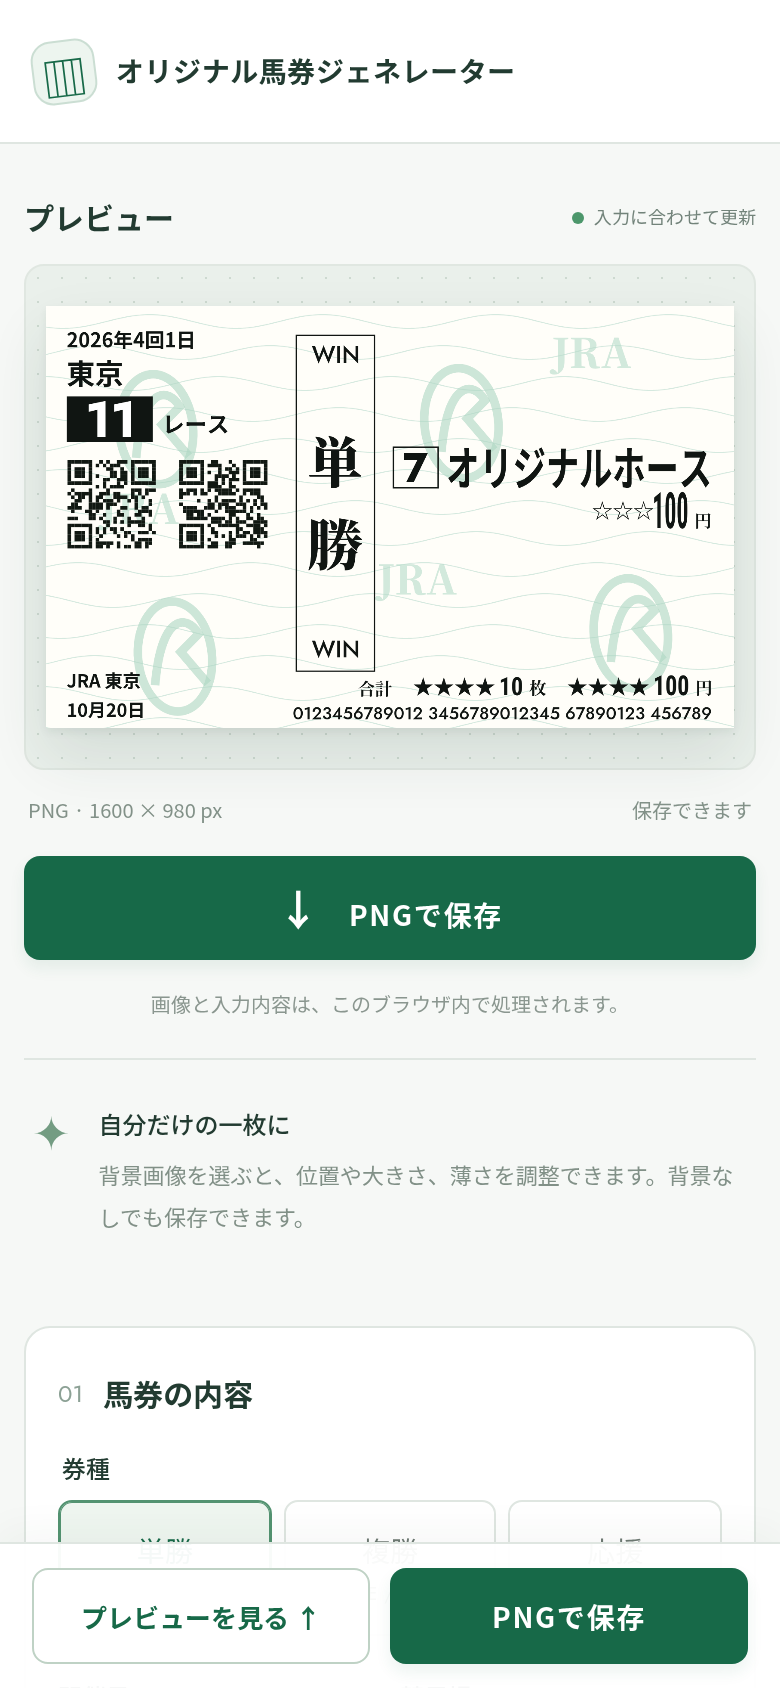
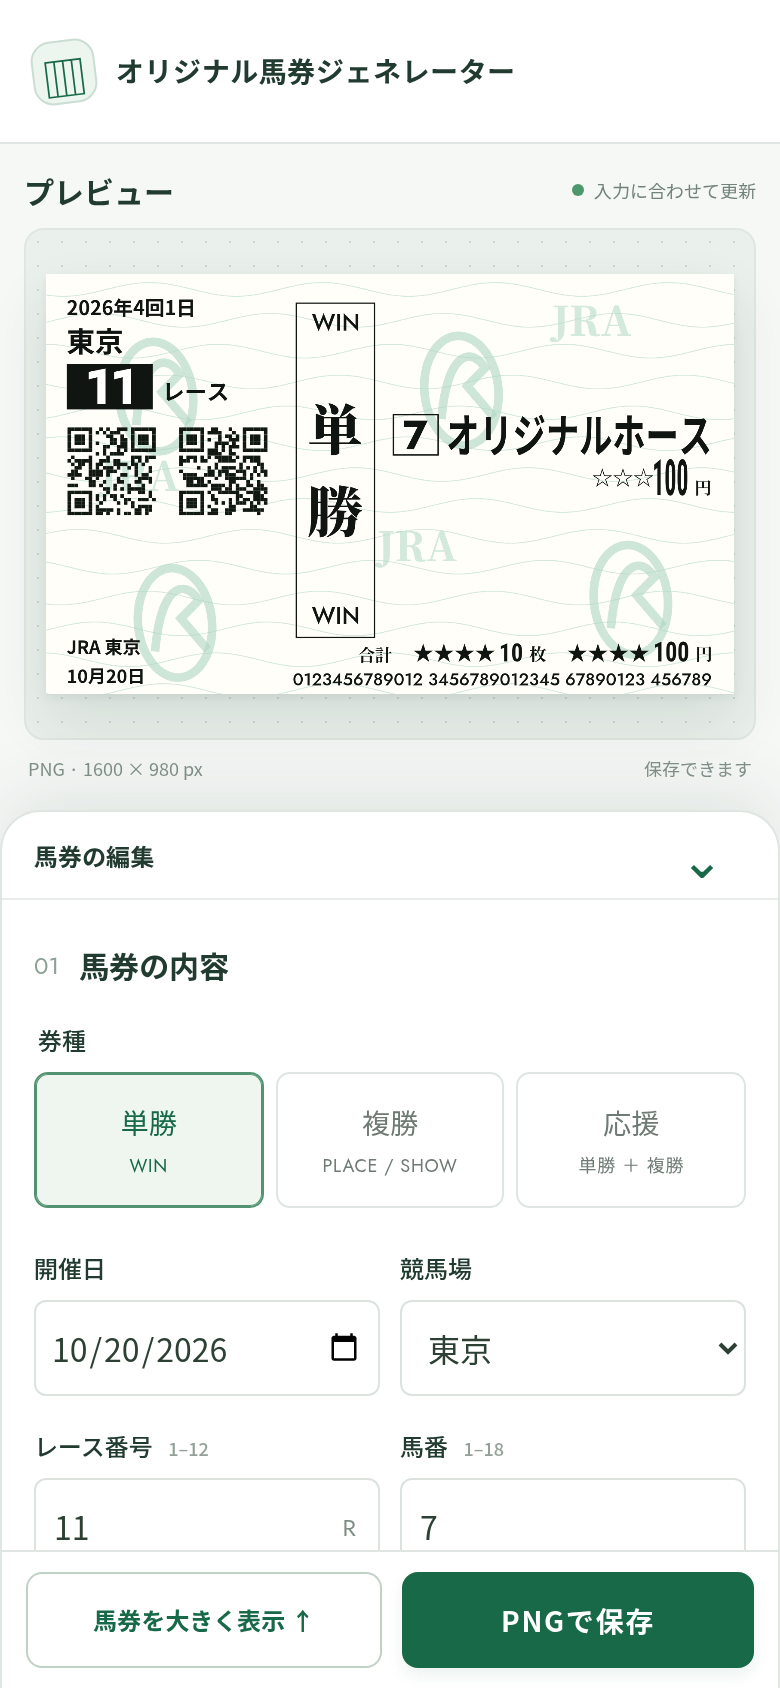
Add scrollable mobile editor sheet and tap-to-focus ticket preview

diff --git a/index.html b/index.html
@@ -12,7 +12,7 @@
 <p class="local-note">画像と入力内容は、このブラウザ内で処理されます。</p>
 <div class="tips"><span class="tip-icon">✦</span><div><strong>自分だけの一枚に</strong><p>背景画像を選ぶと、位置や大きさ、薄さを調整できます。背景なしでも保存できます。</p></div></div>
 </section>
-<aside class="editor"><form id="editor" novalidate>
+<aside id="editor-sheet" class="editor" aria-label="馬券の編集"><div class="sheet-heading"><strong>馬券の編集</strong><button id="sheet-hide" type="button" aria-label="入力シートを閉じて馬券を表示">⌄</button></div><form id="editor" novalidate>
 <section class="form-section"><div class="section-heading"><span>01</span><h2>馬券の内容</h2></div>
 <fieldset class="type-field"><legend>券種</legend><div class="type-options"><label><input type="radio" name="type" value="win" checked><span>単勝<small>WIN</small></span></label><label><input type="radio" name="type" value="place"><span>複勝<small>PLACE / SHOW</small></span></label><label><input type="radio" name="type" value="cheer"><span>応援<small>単勝 ＋ 複勝</small></span></label></div></fieldset>
 <div class="grid"><div class="field"><label for="date">開催日</label><input id="date" name="date" type="date" required><small class="error" id="date-error"></small></div><div class="field"><label for="venue">競馬場</label><select id="venue" name="venue"></select></div>
@@ -25,6 +25,6 @@
 <div id="image-controls" hidden><div class="slider"><label for="image-x">左右位置</label><output id="image-x-value">50%</output><input id="image-x" type="range" min="0" max="100" value="50"></div><div class="slider"><label for="image-y">上下位置</label><output id="image-y-value">50%</output><input id="image-y" type="range" min="0" max="100" value="50"></div><div class="slider"><label for="image-zoom">拡大率</label><output id="image-zoom-value">100%</output><input id="image-zoom" type="range" min="100" max="300" value="100"></div><div class="slider"><label for="image-fade">薄さ</label><output id="image-fade-value">35%</output><input id="image-fade" type="range" min="0" max="100" value="35"></div><div class="image-actions"><button type="button" id="reset-image">配置をリセット</button><button type="button" id="remove-image">画像を削除</button></div></div>
 </section>
 <section class="form-section details-section"><details><summary>詳細設定 <span>開催情報・発券情報</span></summary><div class="grid details-grid"><div class="field"><label for="meeting">開催回</label><input name="meeting" id="meeting" type="number" inputmode="numeric" min="1" max="99" value="4"><small class="error" id="meeting-error"></small></div><div class="field"><label for="day">開催日目</label><input name="day" id="day" type="number" inputmode="numeric" min="1" max="99" value="1"><small class="error" id="day-error"></small></div><div class="field full"><label for="raceName">レース名</label><input name="raceName" id="raceName" maxlength="80" placeholder="例：第87回 菊花賞（GⅠ）"></div><div class="field"><label for="issueType">発券場所の種別</label><select name="issueType" id="issueType"><option value="JRA">JRA</option><option value="WINS">WINS</option></select></div><div class="field"><label for="issuePlace">競馬場・施設名</label><input name="issuePlace" id="issuePlace" value="東京" placeholder="例：東京・後楽園" maxlength="24" required><small class="error" id="issuePlace-error"></small></div><div class="field full"><label for="purchaseDate">購入日</label><input name="purchaseDate" id="purchaseDate" type="date" required><small class="error" id="purchaseDate-error"></small></div><div class="field full"><label for="serial">管理番号</label><input name="serial" id="serial" value="0123456789012 3456789012345 67890123 456789" maxlength="60" required><small class="error" id="serial-error"></small></div></div></details></section>
-</form></aside>
-</main><nav class="mobile-actions" aria-label="プレビューと保存"><a href="#preview">プレビューを見る ↑</a><button id="download-mobile" class="primary" type="button" disabled>PNGで保存</button></nav><footer><span>オリジナル馬券ジェネレーター</span><a href="./fonts/LICENSES.html" target="_blank" rel="noopener">フォント・ライセンス ↗</a></footer>
+<div class="sheet-legal"><a href="./fonts/LICENSES.html" target="_blank" rel="noopener">フォント・ライセンス ↗</a></div></form><nav class="mobile-actions" aria-label="プレビューと保存"><button id="sheet-preview-toggle" class="preview-action" type="button">馬券を大きく表示 ↑</button><button id="download-mobile" class="primary" type="button" disabled>PNGで保存</button></nav></aside>
+</main><footer><span>オリジナル馬券ジェネレーター</span><a href="./fonts/LICENSES.html" target="_blank" rel="noopener">フォント・ライセンス ↗</a></footer>
 </body></html>

diff --git a/style.css b/style.css
@@ -139,3 +139,40 @@ footer a{color:inherit;text-decoration:none}
   .details-section{padding-block:12px}
   footer{padding:20px 16px;gap:18px;flex-wrap:wrap;line-height:1.8}
 }
+
+.sheet-heading,.sheet-legal{display:none}
+@media(max-width:1119px){
+  body{--app-height:100dvh;--app-top:0px;--header-size:90px;--header-space:var(--header-size);--sheet-size:min(calc(var(--app-height)*.52),560px);--sheet-space:var(--sheet-size);--preview-chrome:100px;height:var(--app-height);padding:0;overflow:hidden}
+  .header{position:fixed;z-index:5;top:var(--app-top);left:0;right:0;height:var(--header-size);min-height:0;transition:transform .24s ease}
+  .workspace{display:block;max-width:none;padding:0}
+  .preview-panel{position:fixed;top:calc(var(--app-top) + var(--header-space));left:0;right:0;height:calc(var(--app-height) - var(--header-space) - var(--sheet-space));display:flex;flex-direction:column;align-items:stretch;padding:12px;transition:height .24s ease,top .24s ease}
+  .section-top{flex-shrink:0;height:22px;margin:0 0 8px}
+  .preview-stage{flex:1;min-height:0;padding:10px;justify-content:center}
+  .preview-stage canvas{width:min(100%,calc((var(--app-height) - var(--header-space) - var(--sheet-space) - var(--preview-chrome))*80/49));height:auto;cursor:pointer;touch-action:manipulation;transition:width .24s ease}
+  .preview-stage canvas:focus-visible{outline:3px solid #4f9670;outline-offset:4px}
+  .preview-bottom{flex-shrink:0;margin:8px 2px 0;min-height:15px;font-size:9px;gap:4px}
+  .preview-panel>.primary,.preview-panel>.local-note,.preview-panel>.tips{display:none}
+  .editor{position:fixed;z-index:20;left:0;right:0;top:calc(var(--app-top) + var(--app-height) - var(--sheet-size));height:var(--sheet-size);max-width:800px;margin:auto;display:flex;flex-direction:column;border-radius:20px 20px 0 0;border-bottom:0;box-shadow:0 -10px 35px #25413318;transition:transform .24s ease,visibility 0s}
+  .sheet-heading{display:flex;align-items:center;justify-content:space-between;flex-shrink:0;height:44px;padding:0 16px;border-bottom:1px solid #e8ede9}
+  .sheet-heading strong{font-size:12px}
+  .sheet-heading button{width:44px;height:44px;background:transparent;border:0;color:var(--green);font-size:26px;cursor:pointer}
+  .editor form{flex:1;min-height:0;overflow-y:auto;overscroll-behavior-y:contain;-webkit-overflow-scrolling:touch;scroll-padding-block:16px}
+  .mobile-actions{position:static;inset:auto;flex-shrink:0;box-shadow:none;padding:10px 12px calc(10px + env(safe-area-inset-bottom,0px))}
+  .mobile-actions .preview-action{background:#fff;border:1px solid #bfd2c5;border-radius:8px;color:var(--green);font-size:12px;font-weight:700;cursor:pointer}
+  .sheet-legal{display:block;padding:18px 16px;font-size:10px}
+  .sheet-legal a{color:#7b8c82;text-decoration:none}
+  footer{display:none}
+  body.ticket-focused{--header-space:0px;--sheet-space:0px;--preview-chrome:24px}
+  .ticket-focused .header{transform:translateY(-110%);pointer-events:none}
+  .ticket-focused .editor{transform:translateY(calc(100% + 12px));visibility:hidden;pointer-events:none;transition:transform .24s ease,visibility 0s .24s}
+  .ticket-focused .section-top,.ticket-focused .preview-bottom{display:none}
+  .ticket-focused .preview-stage{padding:0;background:transparent;border:0;border-radius:0}
+}
+@media(max-width:600px){body{--header-size:72px}}
+@media(max-width:1119px) and (max-height:500px){
+  body{--header-size:0px;--preview-chrome:44px}
+  .header,.section-top,.preview-bottom{display:none}
+}
+@media(prefers-reduced-motion:reduce){
+  .preview-panel,.preview-stage canvas,.editor,.header{transition:none!important}
+}

diff --git a/app.js b/app.js
@@ -249,6 +249,43 @@
   }
   form.addEventListener('submit',e=>e.preventDefault());
   form.addEventListener('input',e=>{if(e.target.id!=='background')validate();});
+  const mobileLayout=matchMedia('(max-width:1119px)'), sheet=$('editor-sheet');
+  function syncMobileViewport(){
+    const viewport=window.visualViewport;
+    if(!mobileLayout.matches){
+      document.body.style.removeProperty('--app-height');document.body.style.removeProperty('--app-top');return;
+    }
+    if(viewport && viewport.scale!==1)return;
+    document.body.style.setProperty('--app-height',`${viewport?.height || innerHeight}px`);
+    document.body.style.setProperty('--app-top',`${viewport?.offsetTop || 0}px`);
+  }
+  function setTicketFocused(focused){
+    focused=mobileLayout.matches && focused;
+    if(focused && sheet.contains(document.activeElement))document.activeElement.blur();
+    document.body.classList.toggle('ticket-focused',focused);
+    sheet.inert=focused;
+    if(focused)sheet.setAttribute('aria-hidden','true');else sheet.removeAttribute('aria-hidden');
+    if(mobileLayout.matches){
+      canvas.setAttribute('role','button');canvas.tabIndex=0;
+      canvas.setAttribute('aria-controls','editor-sheet');canvas.setAttribute('aria-expanded',String(!focused));
+      canvas.setAttribute('aria-label',focused?'馬券。タップして編集に戻る':'馬券。タップして全体を表示');
+    }else{
+      canvas.removeAttribute('role');canvas.removeAttribute('tabindex');canvas.removeAttribute('aria-controls');canvas.removeAttribute('aria-expanded');
+      canvas.setAttribute('aria-label','作成中の馬券');
+    }
+    syncMobileViewport();
+  }
+  canvas.addEventListener('click',()=>{if(mobileLayout.matches)setTicketFocused(!document.body.classList.contains('ticket-focused'));});
+  canvas.addEventListener('keydown',e=>{
+    if(mobileLayout.matches && (e.key==='Enter' || e.key===' ')){e.preventDefault();setTicketFocused(!document.body.classList.contains('ticket-focused'));}
+  });
+  $('sheet-hide').addEventListener('click',()=>setTicketFocused(true));
+  $('sheet-preview-toggle').addEventListener('click',()=>setTicketFocused(true));
+  mobileLayout.addEventListener('change',()=>setTicketFocused(false));
+  window.addEventListener('resize',syncMobileViewport);
+  window.visualViewport?.addEventListener('resize',syncMobileViewport);
+  window.visualViewport?.addEventListener('scroll',syncMobileViewport);
+  setTicketFocused(false);
   $('download-mobile').addEventListener('click',()=>$('download').click());
   $('download').addEventListener('click',()=>{
     validate();if(!ready||!valid||imageLoading||imageProblem)return;

diff --git a/docs/VERIFICATION.md b/docs/VERIFICATION.md
@@ -135,3 +135,12 @@
 - 入力文字16px、入力欄48px、操作ボタン44px以上を確保し、スマホの余白・見出し・画像スライダー・詳細設定・日付入力を調整。
 - Chromiumで320・375・390・430・768・844・1120・1440px幅を確認。横スクロールなし、PCの2カラム、モバイルのタップ入力、券種切り替え、入力エラー、背景読み込み・調整・リセット・削除、プレビューへの移動、固定ボタンからのPNGダウンロードを確認。
 - スマホ表示でも保存PNGは1600×980px。実機のiOS Safari・Androidブラウザによる確認は未実施。
+
+## モバイルのボトムシートと馬券表示（2026-10-20）
+
+- スマホ・タブレットの入力フォームをボトムシート化。見出しと保存操作は固定し、フォーム内だけでスクロール。
+- 馬券の1回のタップでシートとヘッダーを隠し、馬券を表示領域の上下左右中央へ配置。もう1回のタップでシートを戻し、入力内容とシート内スクロール位置を維持。
+- シート内の表示ボタン・閉じるボタン、CanvasのEnter/Space操作にも対応。隠したシートはinert/aria-hidden、馬券は展開状態を通知。PCに戻るとモバイル状態と操作属性を解除。
+- Visual Viewportの高さ・位置へ追従し、ブラウザ表示領域や画面回転に対応。動きを減らす設定にも対応。
+- Chromiumで320×740、390×844、430×932、768×1024、844×390、390×420、1440×1050を確認。スクロール、タップ開閉、中央座標、入力・スクロール保持、入力エラー、背景付きPNG保存（1600×980）、回転中の中央維持、PC復帰、PCの2カラム維持を確認。
+- iOS/Android実機のソフトキーボード表示時とSafariでの操作は未確認。
